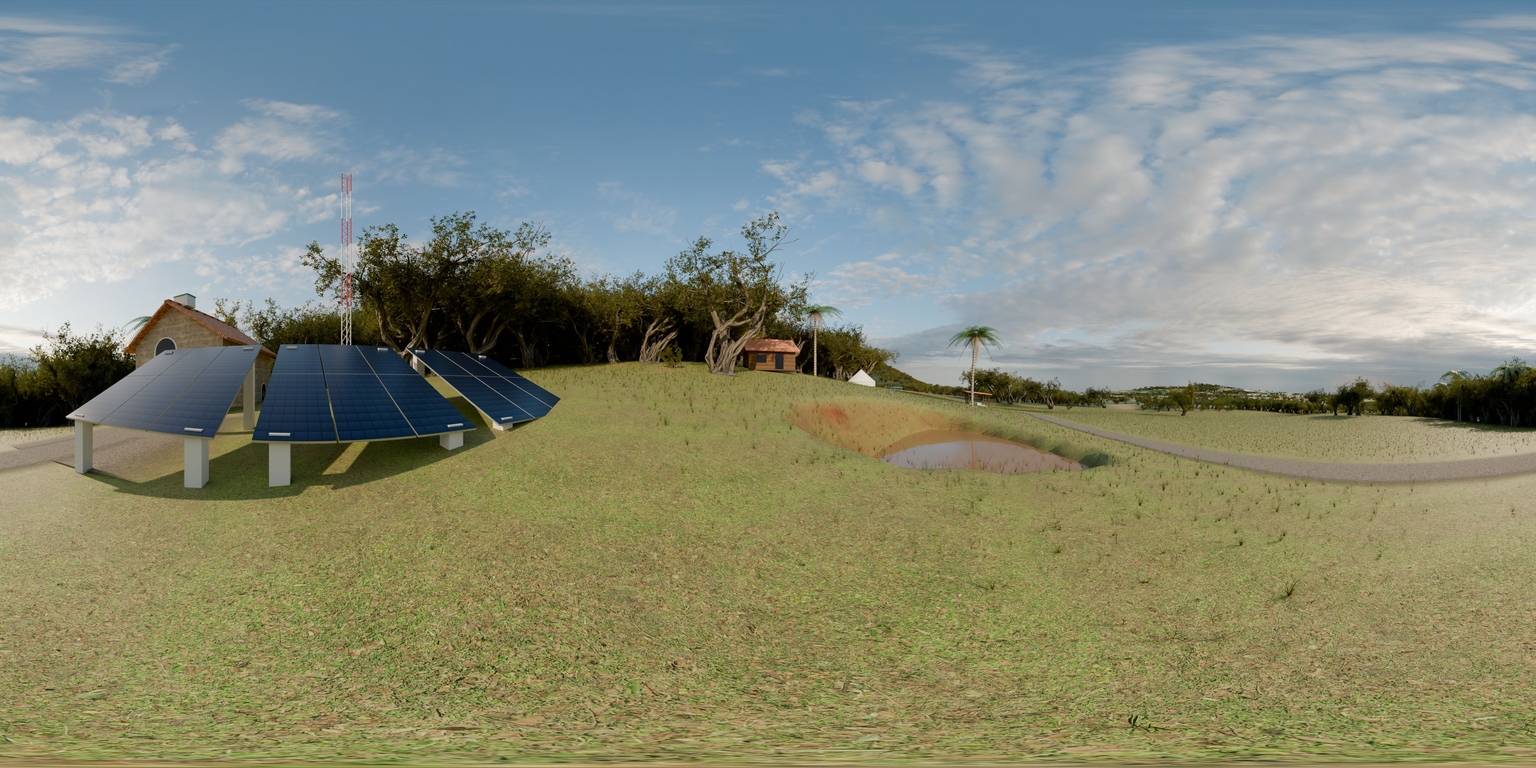
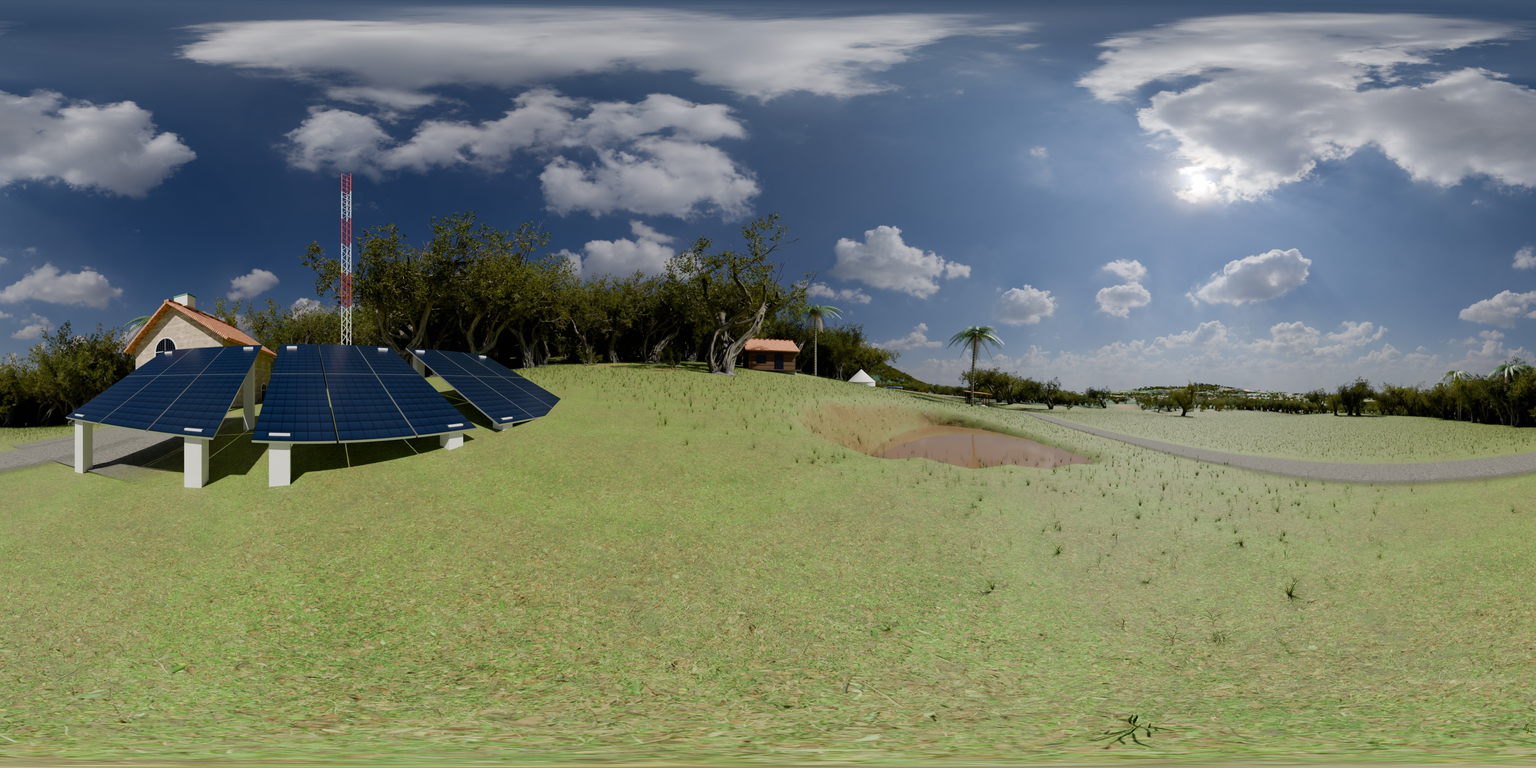
Tour: midday renders of the outdoor views; daylight into the rooms
The ten outdoor views re-rendered under render/look.json's late-morning sky
and sun, with the greener lawn and the homestead's window bars. For the rooms:
the glass lets shadow and bounce rays through (daylight reaches inside, as it
would), and views inside are exposed 1.3 stops brighter, as a photographer
would; those two follow.

Claude-Session: https://claude.ai/code/session_01BVhnWLQamt73J4nrj2yiGZ

diff --git a/render/build.py b/render/build.py
@@ -311,6 +311,15 @@ def web_materials():
         if not m.use_nodes or key not in ('glass', 'pool', 'lamp'): continue
         b = next((n for n in m.node_tree.nodes if n.type == 'BSDF_PRINCIPLED'), None)
         if not b: continue
+        if key == 'glass':
+            # Daylight into the rooms: to shadow and bounce rays the glass is clear (the usual way to light interiors
+            # in Cycles; real glass would leave them in the dark), while the eye still sees glass and reflections.
+            nt_ = m.node_tree; out_ = next(n for n in nt_.nodes if n.type == 'OUTPUT_MATERIAL')
+            lp, mx, tr = nt_.nodes.new('ShaderNodeLightPath'), nt_.nodes.new('ShaderNodeMixShader'), nt_.nodes.new('ShaderNodeBsdfTransparent')
+            mxo = nt_.nodes.new('ShaderNodeMath'); mxo.operation = 'MAXIMUM'
+            nt_.links.new(lp.outputs['Is Shadow Ray'], mxo.inputs[0]); nt_.links.new(lp.outputs['Is Diffuse Ray'], mxo.inputs[1])
+            nt_.links.new(mxo.outputs[0], mx.inputs[0]); nt_.links.new(b.outputs[0], mx.inputs[1]); nt_.links.new(tr.outputs[0], mx.inputs[2])
+            nt_.links.new(mx.outputs[0], out_.inputs['Surface'])
         if key in ('glass', 'pool'):
             for l in list(b.inputs['Alpha'].links): m.node_tree.links.remove(l)
             b.inputs['Alpha'].default_value = 1.0; b.inputs['Transmission Weight'].default_value = 1.0; b.inputs['Metallic'].default_value = 0.0
@@ -525,6 +534,7 @@ if VIEW == 'tour':
         cam.rotation_euler = (math.pi / 2, 0, -math.radians(p['bearing']))           # level, centre of the image toward the bearing
         sc.render.filepath = os.path.join(OUT, f"{p['site']}-{p['id']}.jpg")
         c_.samples = SPP * 3 if 'roam' in p else SPP              # a view inside (free roam starts outside it): lamplight needs more samples
+        vs.exposure = 0.5 + (1.3 if p['id'] in ('inside', 'living') else 0)   # rooms exposed as a photographer would: brighter than outdoors
         t1 = time.time(); bpy.ops.render.render(write_still=True)
         print(f"{p['site']}-{p['id']}: {W}x{H} @ {c_.samples} spp in {time.time() - t1:.0f} s", flush=True)
     sys.exit(0)
